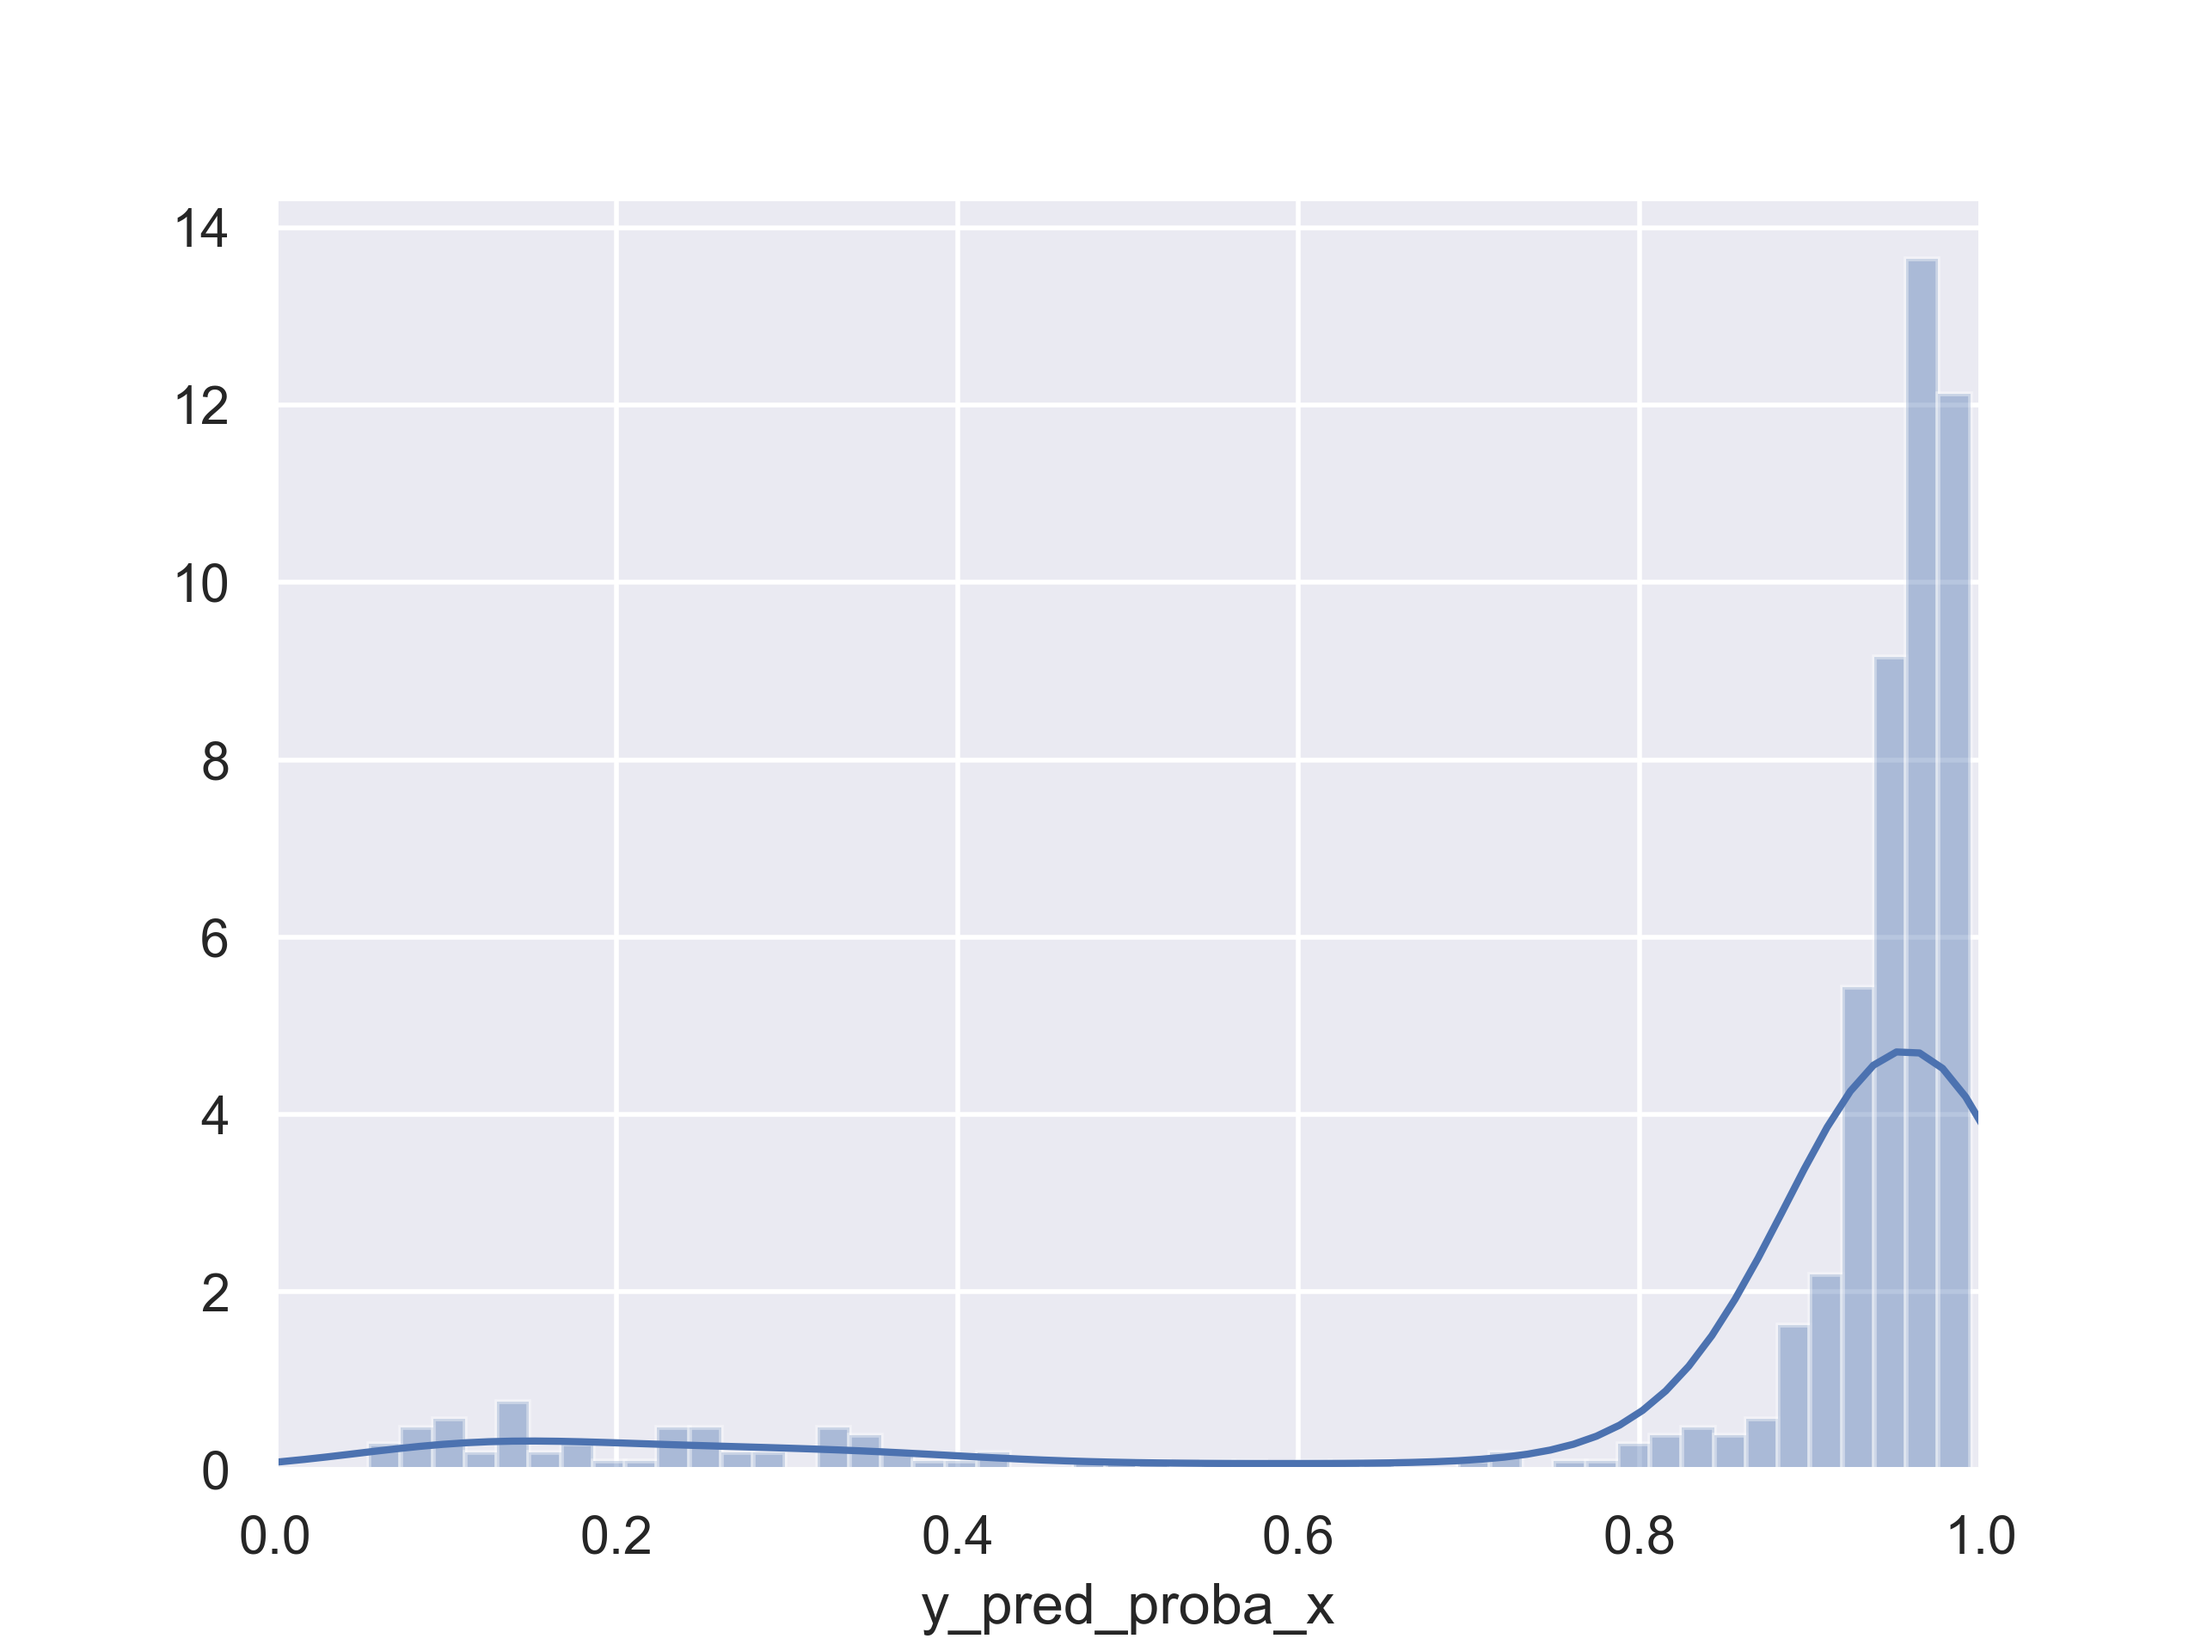
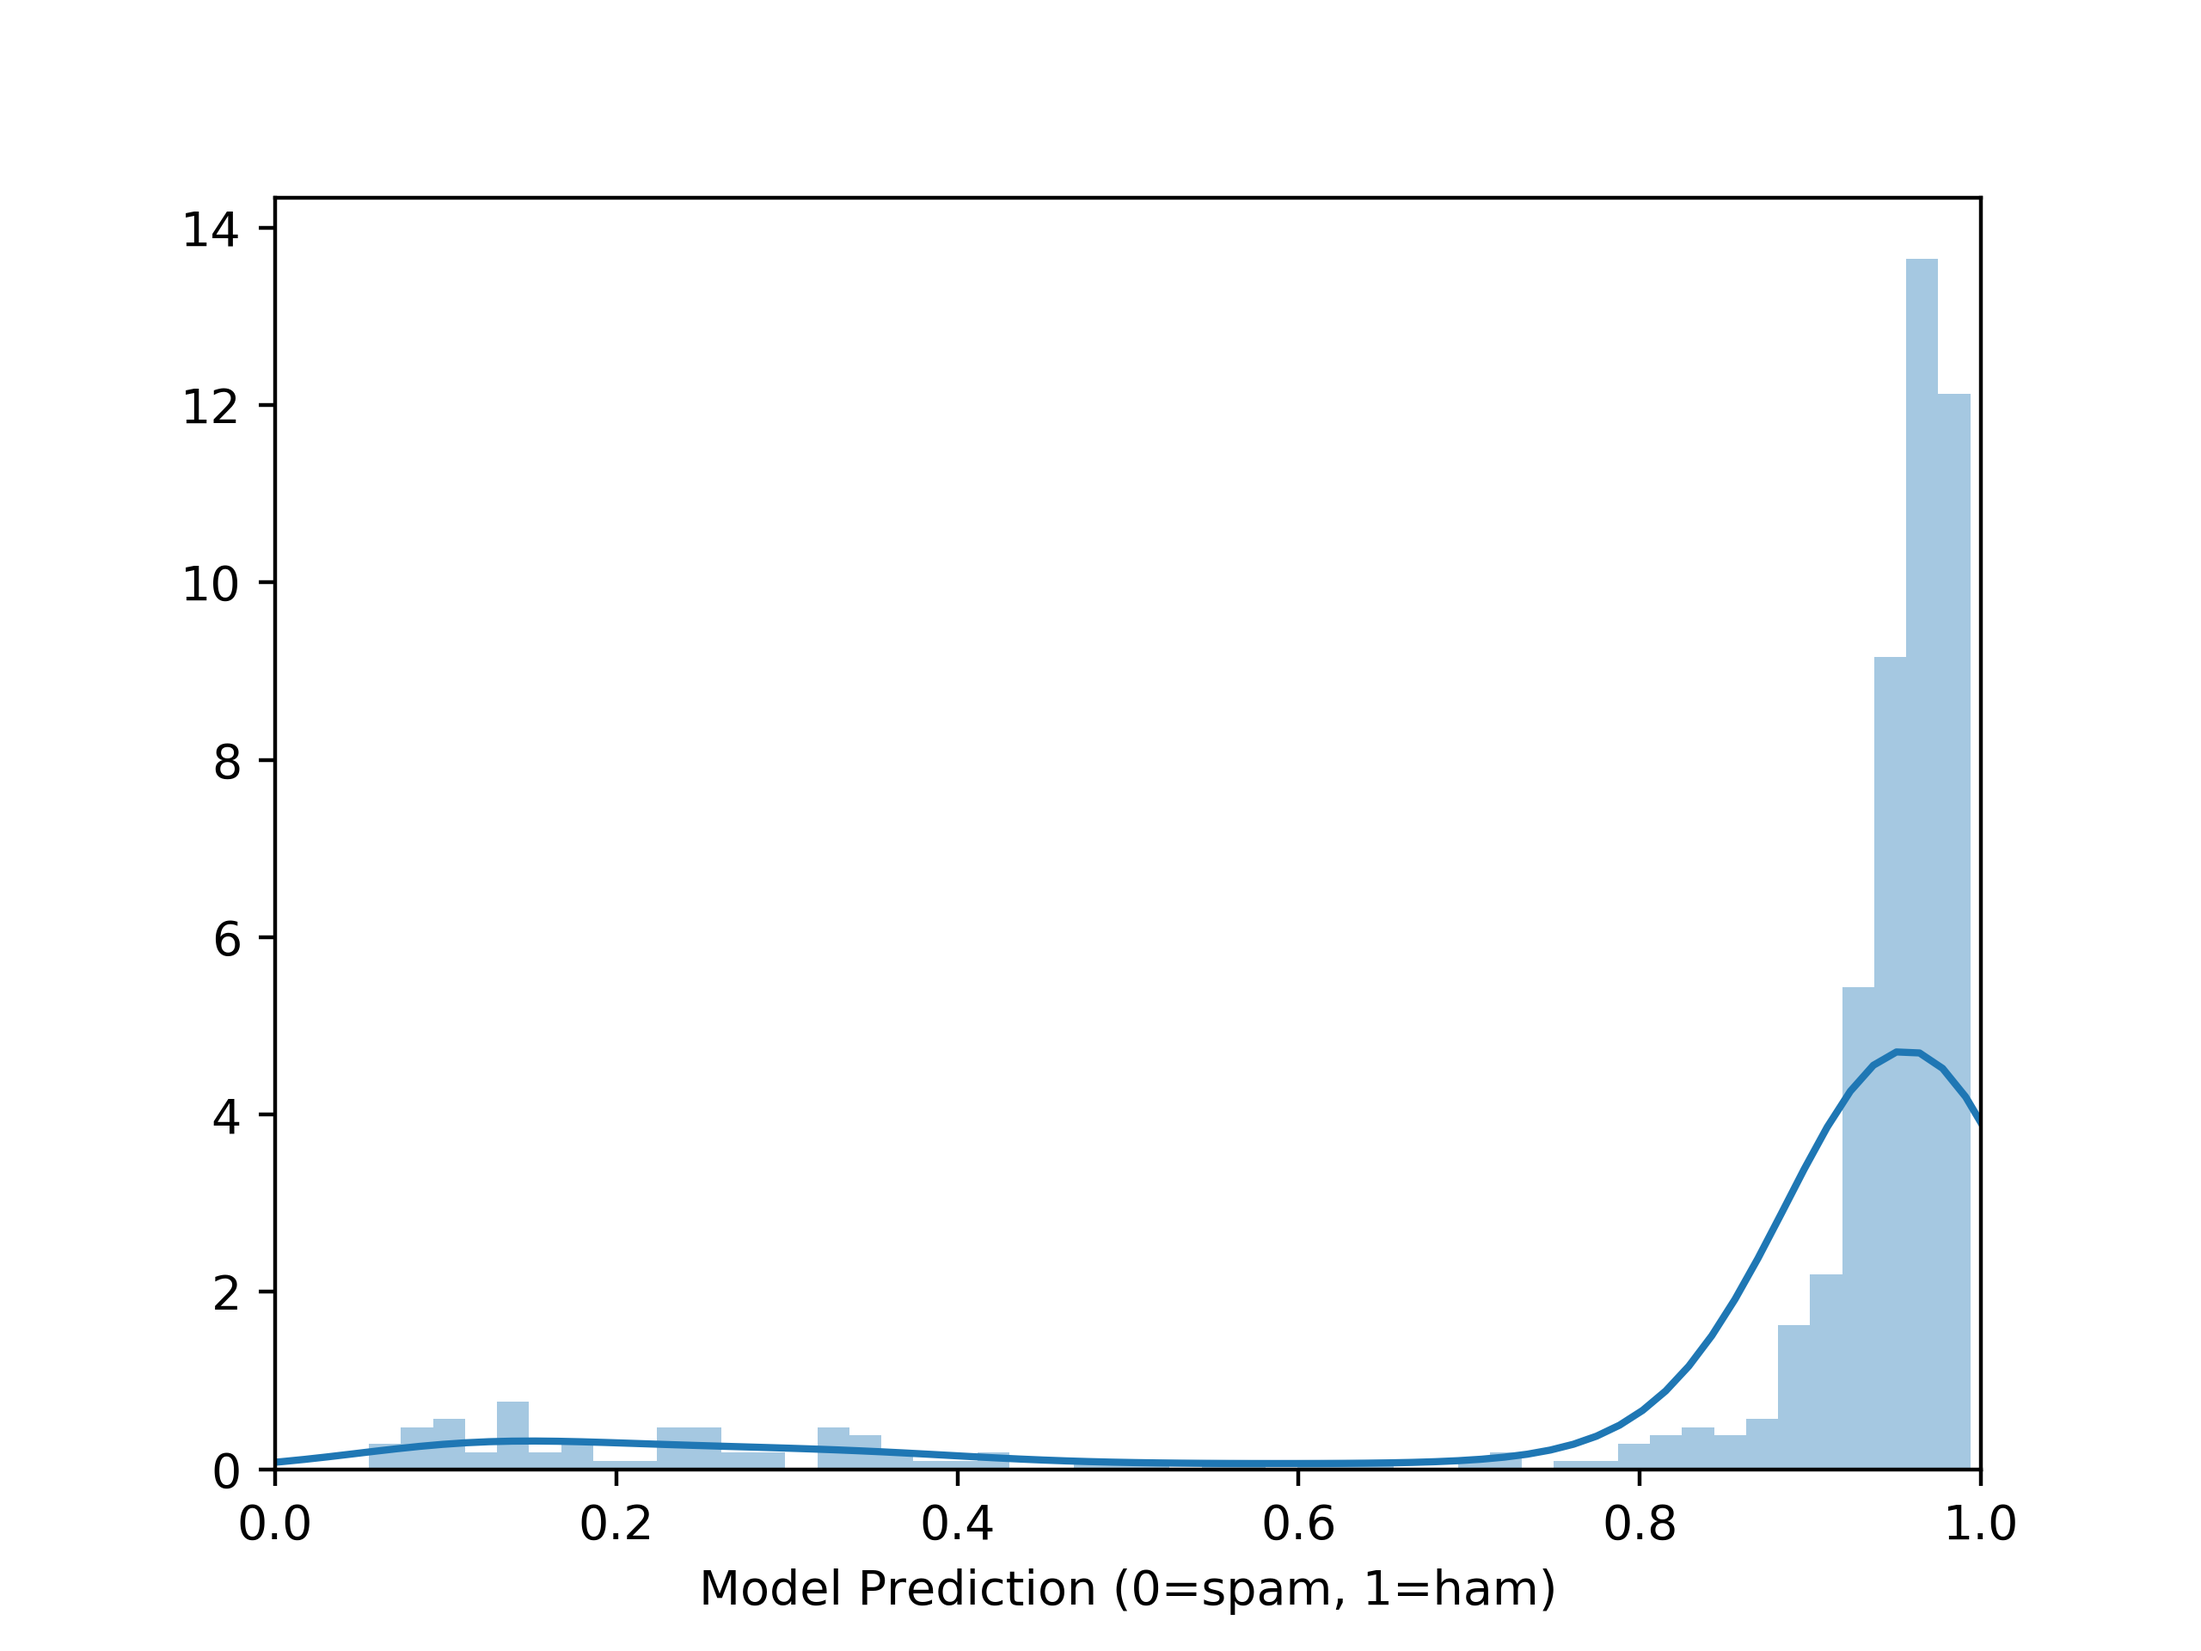
some more viz

diff --git a/02_scripts/04_viz.py b/02_scripts/04_viz.py
@@ -1,5 +1,6 @@
 import pandas as pd
 import seaborn as sns
+import matplotlib.pyplot as plt
 import pprint
 
 if __name__ == "__main__":
@@ -25,8 +26,11 @@ if __name__ == "__main__":
     # pp.pprint(df_all.head())
 
     # distribution of y_pred_proba_x
-    sns.set()
-    plot = sns.distplot(df_all['y_pred_proba_x'])
+    plot = sns.distplot(df_all['y_pred_proba_x'], axlabel='Model Prediction (0=spam, 1=ham)', label='Message Count')
     plot.set(xlim=(0,1), ylim=(0,None))
-    figure = plot.get_figure()
-    figure.savefig("../03_results/02_visualizations/plot_01.png", dpi=400)
+    plt.savefig("../03_results/02_visualizations/plot_01.png", dpi=400)
+
+    # distribution of y_pred_proba_y
+    plot = sns.distplot(df_all['y_pred_proba_x'], axlabel='Model Prediction (0=spam, 1=ham)', label='Message Count')
+    plot.set(xlim=(0,1), ylim=(0,None))
+    plt.savefig("../03_results/02_visualizations/plot_02.png", dpi=400)

diff --git a/README.md b/README.md
@@ -7,23 +7,23 @@
 
 ## Executive Summary
 
-Both models scored really well in terms of accuracy:
+Both models scored well in terms of accuracy:
 * Logistic = 93%
 * SVM = 98%
 
-Logistic model's confusion matrix:
+Logistic model's confusion matrix (testing data):
 
 |                      | Actually Ham | Actually Spam |
 |:---------------------|-------------:|--------------:|
-| Predicted to be Ham  | 490          | 5             |
-| Predicted to be Spam | 0            | 58            |
+| Predicted to be Ham  | 487          | 2             |
+| Predicted to be Spam | 7            | 62            |
 
-SVM model's confusion matrix:
+SVM model's confusion matrix (testing data):
 
 |                      | Actually Ham | Actually Spam |
 |:---------------------|-------------:|--------------:|
-| Predicted to be Ham  | 490          | 5             |
-| Predicted to be Spam | 0            | 58            |
+| Predicted to be Ham  | 488          | 1             |
+| Predicted to be Spam | 8            | 61            |
 
 ## Data
 
@@ -35,13 +35,18 @@ Of those messages, 4,825 (~87%) are classified as ham with the remaining 747 (~1
 
 ## Visualizations
 
-![](https://github.com/chris-carbonell/Naive-Bayes-SMS-Spam-Filter/blob/master/assets/test.jpg?raw=true)
-* distribution by proba
+In the following visualizations, the x-axis ranges from 0, spam, to 1, ham. For example, a prediction of 0.4 indicates the message is probably spam but not super spammy.
+
+### Logistic model's histogram of probabilities
+![](https://raw.githubusercontent.com/chris-carbonell/Naive-Bayes-SMS-Spam-Filter/master/03_results/02_visualizations/plot_01.png?raw=true)
+
+### SVM model's histogram of probabilities
+![](https://raw.githubusercontent.com/chris-carbonell/Naive-Bayes-SMS-Spam-Filter/master/03_results/02_visualizations/plot_02.png?raw=true)
 
 ## Prerequisites
 * Python 3.x (3.6.0)
 
-## Helpful Links
+## Resources
 * [https://towardsdatascience.com/spam-or-ham-introduction-to-natural-language-processing-part-2-a0093185aebd](https://towardsdatascience.com/spam-or-ham-introduction-to-natural-language-processing-part-2-a0093185aebd)
 * [https://bbengfort.github.io/tutorials/2016/05/19/text-classification-nltk-sckit-learn.html](https://bbengfort.github.io/tutorials/2016/05/19/text-classification-nltk-sckit-learn.html)
 * [https://machinelearningmastery.com/clean-text-machine-learning-python/](https://machinelearningmastery.com/clean-text-machine-learning-python/)
